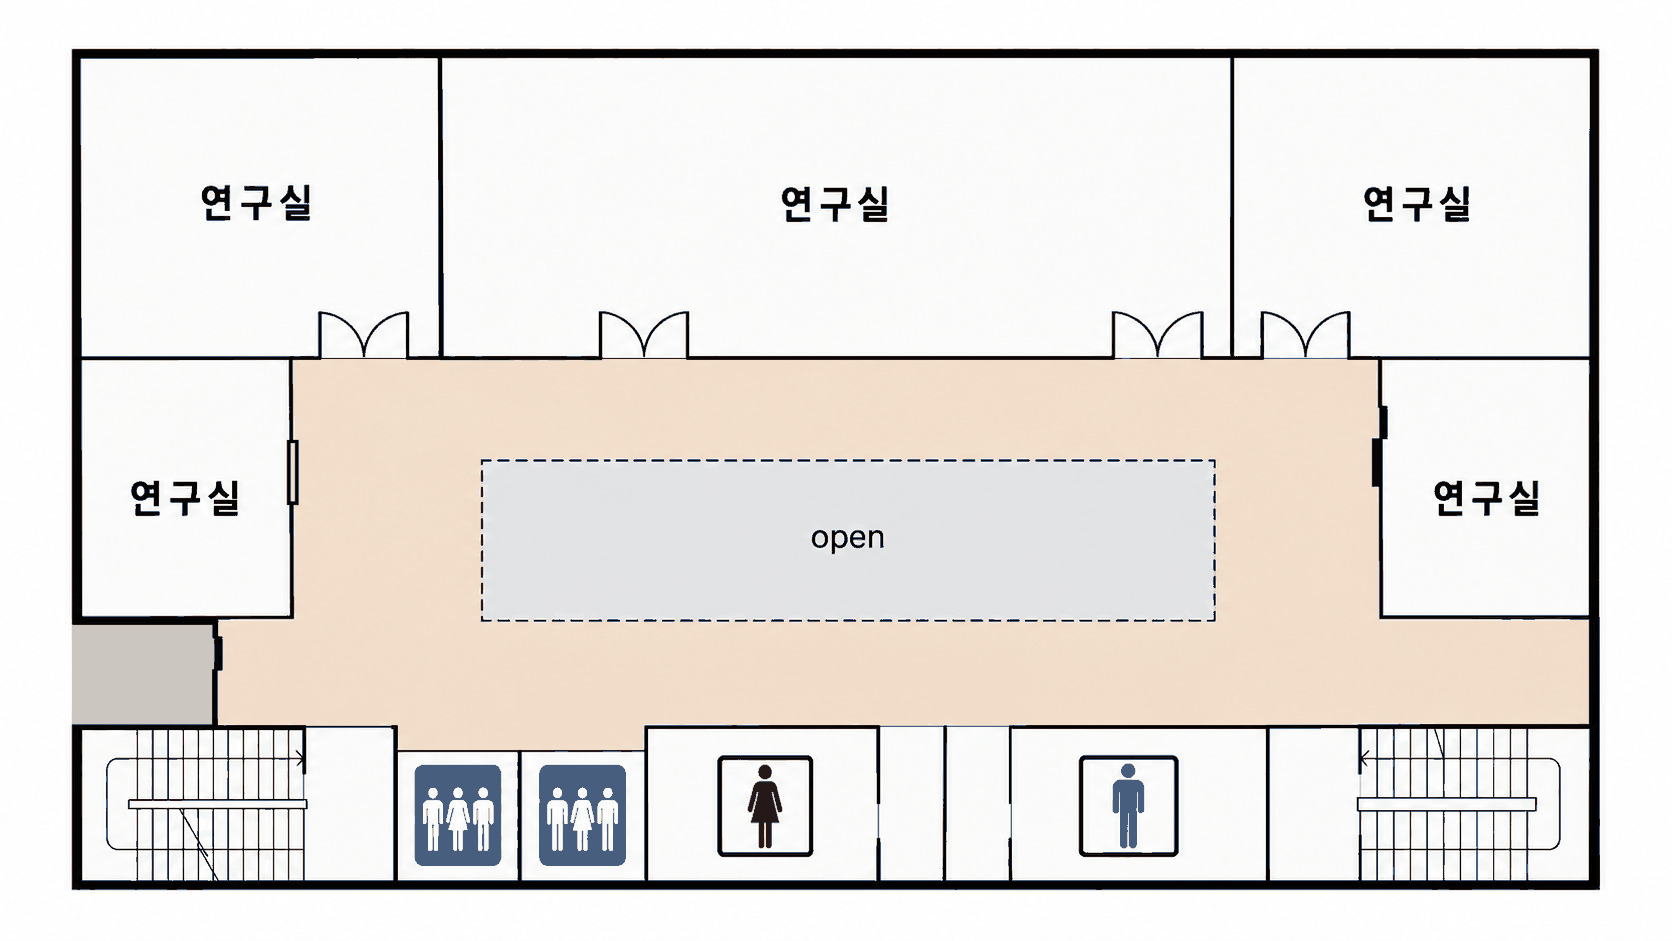
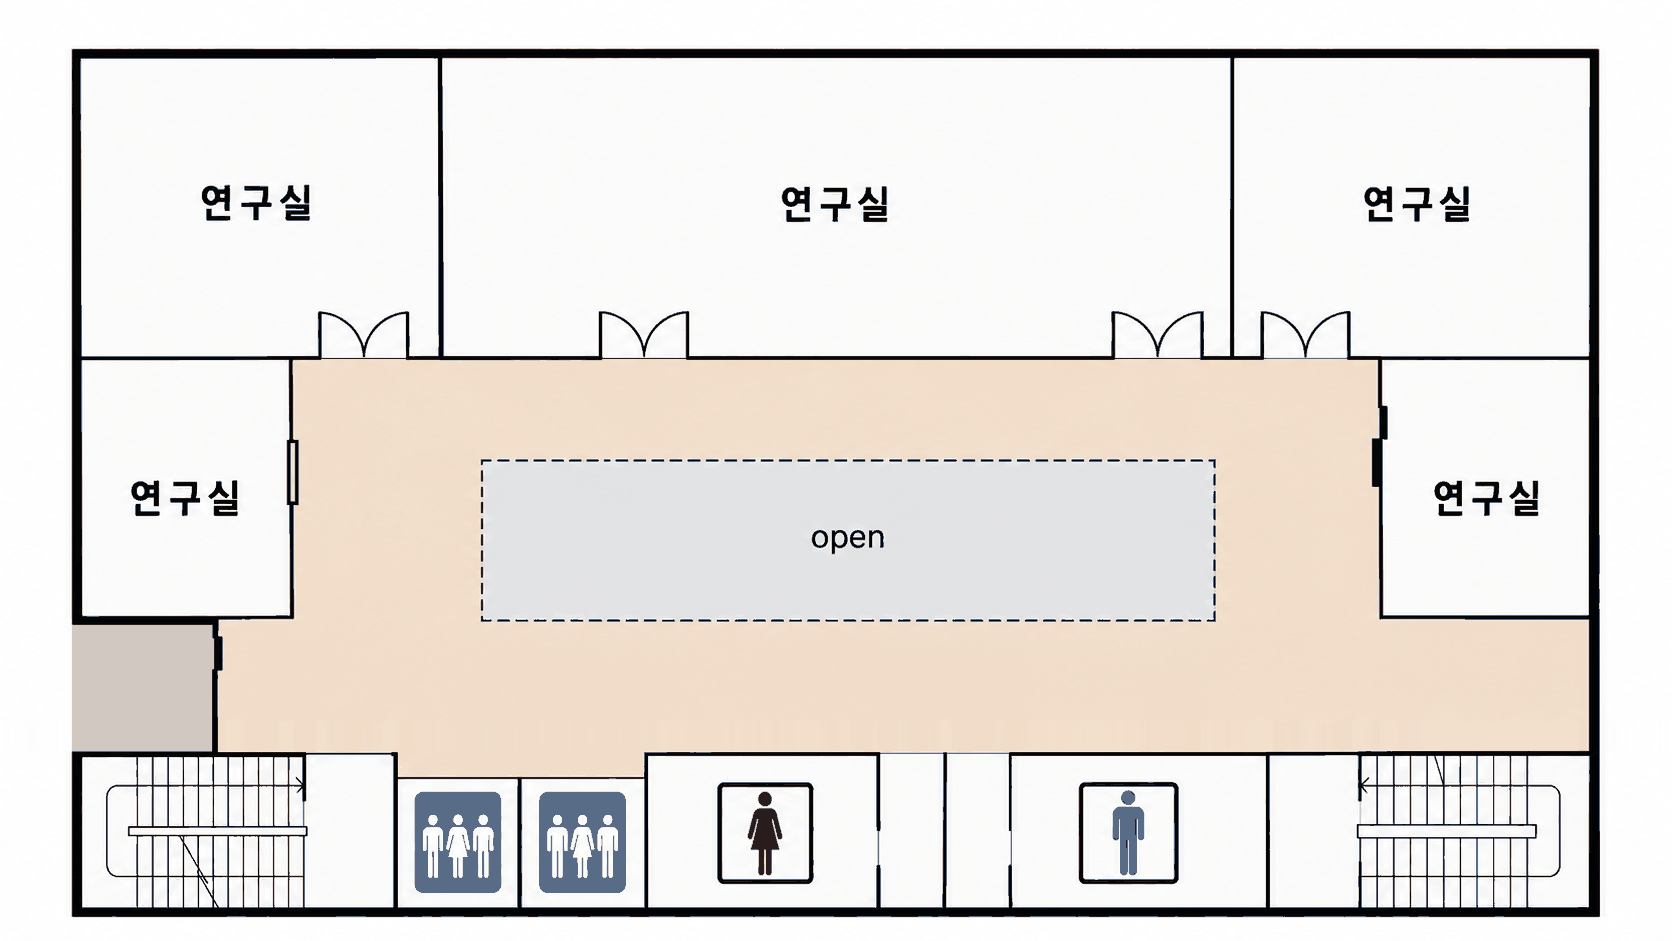
연구소 도면 복도를 넓혀 벽을 맞춘다 — v2.7.2
화장실 쪽 벽이 안 닿았다. 라이다가 본 벽이 도면의 벽선보다 27px(63cm)
아래에 있었고, 그 사이를 로봇이 실제로 지나다녔다. 도면이 복도를 그만큼
좁게 그린 것이다.

대피도를 고쳤다. 복도/화장실 경계 아래를 27px 내리고 그 자리를 복도 색으로
채웠다. 로봇 쪽 자료(.pgm/.yaml)는 건드리지 않는다 — 길 찾기의 근거라
그쪽이 기준이고, 맞춰야 하는 쪽은 그림이다.

    연구소 복도 벽   위 -2cm   아래 +9cm   왼 -1cm   오른 +4cm

병동에도 같은 수법을 써 봤지만 소용없었다. 간호사실 상자가 복도 아래에
있어서, 벽을 내리면 못으로 쓰는 그 상자까지 같이 내려간다. 다시 맞추면
그대로 상쇄되어 +8px 가 그대로 남았다. 도면을 되돌리고, 남은 어긋남은
도면 잘못이 아니라 전체 정합의 잔차로 보아 위아래가 고르게 나눠지도록
5px 올리는 것으로 끝냈다. 아래벽 +11px -> +5px.

화장실 칸 안은 맞추지 않는다. 거기엔 이어진 라이다 벽이 없다 — 가장
두꺼운 열이 110px 중 19px 뿐인 흩어진 조각들이고, 복도에서 열린 문틈으로
흘끗 본 것이라 벽이 아니다. 그 점들을 칸막이에 맞추려 하면 있지도 않은
벽에 맞추려고 진짜 벽을 옮기게 된다. 로봇은 그 안으로 들어가지 않는다.

못 검사도 '상자 중심' 에서 '상자 안' 으로 바꾼다. 못으로 쓴 두 점은 서로
다른 것의 중심이라(하나는 라이다가 본 카운터, 하나는 사람이 그린 상자)
몇 px 어긋나는 게 정상이다. 복도 벽을 80군데 넘게 잰 쪽이 더 믿을 만하다.

Changed region(s): [[0.0311, 0.7705, 0.9641, 0.9862]]

diff --git a/test/floor_map_test.dart b/test/floor_map_test.dart
@@ -10,13 +10,19 @@ void main() {
   final ward = FloorMap.builtIn['ward_edit']!;
 
   group('병동 보정', () {
-    test('간호사실 카운터가 도면의 간호사실 상자에 찍힌다', () {
+    test('간호사실 카운터가 도면의 간호사실 상자 안에 찍힌다', () {
       // 보정을 못 박은 지표. 점유격자 (250,821) 칸이 카운터고,
-      // 미터로는 (-3.4, -16.2), 도면에서는 (1000, 606) 이다.
+      // 미터로는 (-3.4, -16.2) 다. 도면의 간호사실 상자는
+      // x 892~1108, y 572~637.
+      //
+      // 상자 '중심' 이 아니라 '안' 을 본다. 못으로 쓴 두 점은 서로 다른
+      // 것의 중심이다 — 하나는 라이다가 본 카운터, 하나는 사람이 그린
+      // 상자라 몇 px 어긋나는 게 정상이다. 그래서 복도 양쪽 벽을 80군데
+      // 넘게 재서 고르게 맞춘 뒤, 못은 상자 안에 들기만 하면 된 것으로 본다.
       final p = ward.toPixel(-3.4, -16.2);
       expect(p, isNotNull);
-      expect(p!.x, closeTo(1000, 1.5));
-      expect(p.y, closeTo(606, 1.5));
+      expect(p!.x, inInclusiveRange(892, 1108));
+      expect(p.y, inInclusiveRange(572, 637));
     });
 
     test('도면 밖은 안 찍는다', () {

diff --git a/lib/utils/floor_map.dart b/lib/utils/floor_map.dart
@@ -54,8 +54,8 @@ class FloorMap {
       asset: 'assets/map/ward_4f.png',
       imageWidth: 1672,
       imageHeight: 941,
-      a: 4.751755, b: -20.852296, c: 678.158,
-      d: -20.165622, e: -4.475699, f: 464.723,
+      a: 4.839265, b: -20.899591, c: 677.880,
+      d: -20.184748, e: -4.485507, f: 459.207,
     ),
     // 연구소는 실로봇 시뮬레이션을 돌리는 곳이다. 벽이 유리라 라이다에
     // 거의 안 잡혀(벽 화소가 병동의 1/5) 병동만큼 촘촘히 맞추지는 못했다.
@@ -65,8 +65,8 @@ class FloorMap {
       asset: 'assets/map/lab_4f.png',
       imageWidth: 1672,
       imageHeight: 941,
-      a: -32.768492, b: 34.393609, c: 1213.908,
-      d: 27.216006, e: 22.127891, f: 410.066,
+      a: -32.700643, b: 34.328179, c: 1202.419,
+      d: 27.346390, e: 22.023876, f: 408.722,
     ),
   };
 

diff --git a/lib/app_version.dart b/lib/app_version.dart
@@ -12,4 +12,4 @@
 ///   2.x.x  앞자리 — 간호과에 넘긴 큰 배포. '2차 버전'이 2.0.0 이다.
 ///   x.1.x  가운뎃자리 — 기능이 늘었을 때
 ///   x.x.1  뒷자리 — 버그만 고쳤을 때
-const String appVersion = '2.7.1';
+const String appVersion = '2.7.2';

diff --git a/maps/README.md b/maps/README.md
@@ -29,8 +29,15 @@
 
 | | 1 m 당 가로 | 1 m 당 세로 | 지표 |
 |---|---|---|---|
-| `ward_edit` (병동) | 20.72 px | 21.33 px | 간호사실 카운터 |
-| `lab_4F` (연구소) | 42.60 px | 40.90 px | 뚫린 공간(open) **중심만** |
+| `ward_edit` (병동) | 20.76 px | 21.38 px | 간호사실 카운터 |
+| `lab_4F` (연구소) | 42.63 px | 40.79 px | 뚫린 공간(open) **중심만** |
+
+맞춘 뒤 복도 벽이 얼마나 붙었는지:
+
+| | 위벽 | 아래벽 | 왼벽 | 오른벽 |
+|---|---|---|---|---|
+| 병동 | 0 cm | +24 cm | — | — |
+| 연구소 | −2 cm | +9 cm | −1 cm | +4 cm |
 
 ### ⚠ 닮음변환이 아니라 아핀이어야 한다
 
@@ -85,7 +92,28 @@
 
 `check_*.png` 들이 그 확인 그림이다.
 
-### 연구소는 아직 어림값이다
+### 연구소 대피도는 손을 댔다
+
+복도/화장실 경계를 **27 px(63 cm) 아래로** 내려 복도를 넓혔다. 도면이
+복도를 그만큼 좁게 그려서, 로봇이 실제로 지나다닌 자리가 화장실 칸
+안으로 들어가 있었다. 로봇 쪽 자료(`.pgm`/`.yaml`)는 건드리지 않는다 —
+길 찾기의 근거라 그쪽이 기준이고, 맞춰야 하는 쪽은 그림이다.
+
+병동 대피도는 손대지 않았다. 아래벽이 +8 px 벌어져 같은 수법을 써 봤지만
+소용없었다 — 간호사실 상자가 복도 **아래**에 있어서 벽을 내리면 못으로
+쓰는 그 상자까지 같이 내려가고, 다시 맞추면 그대로 상쇄된다. 병동의
+남은 어긋남은 도면 잘못이 아니라 전체 정합의 잔차라, 위아래가 고르게
+나눠 지도록 5 px 올리는 것으로 끝냈다.
+
+### 화장실 칸은 맞출 것이 없다
+
+그 안에는 **이어진 라이다 벽이 없다.** 가장 두꺼운 열이 110 px 중 19 px
+뿐인 흩어진 조각들이다 — 로봇이 복도에서 열린 문틈으로 흘끗 본 것이라
+벽이 아니다. 거기 찍힌 빨간 점을 도면의 칸막이에 맞추려 하면, 있지도
+않은 벽에 맞추려고 진짜 벽을 옮기게 된다. 로봇은 그 안으로 들어가지
+않으므로 점이 틀릴 일도 없다.
+
+### 연구소는 그래도 어림값이다
 
 모양만 보고 맞춘 값이라 병동만큼 믿을 수 없다. "로봇이 고리 복도를 돌고
 있다" 를 보는 데는 쓸 만하다. 로봇팀에 `config/lab_waypoints.json` 을

diff --git a/BUILD.md b/BUILD.md
@@ -46,6 +46,7 @@ git push origin v2.1.0
 | `v2.6.0` | 2026-10-19 | 배송 성패와 복귀 성패를 갈라 읽음 + 로봇 점검 필요 표시 |
 | `v2.7.0` | 2026-10-20 | 배차 화면 층 도면에 로봇 위치 표시 |
 | `v2.7.1` | 2026-10-20 | 연구소 도면 보정이 세로로 부풀었던 것 수정 |
+| `v2.7.2` | 2026-10-20 | 연구소 도면 복도를 넓혀 벽을 맞춤 |
 
 > `v2.1.0` 은 배포한 뒤 태그를 빠뜨려 2026-09-17 에 뒤늦게 달았다. 어느
 > 코드가 나갔는지는 `build/web/version.json`(2.1.0+4)과 `.firebase` 배포
